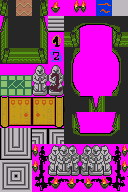
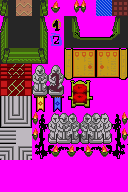
+ Modificados tileSet final-dungeon y su archivo de configuración + Pequeños cambios en FinalDungeon y en DunDecorator

diff --git a/generator/source/include/FinalDungeon.h b/generator/source/include/FinalDungeon.h
@@ -12,22 +12,21 @@
 #include "DBManager.h"
 
 /*
-		       Lock Screen									  Final Screen
+		       Lock Screen							Final Screen
 
-		1 1 1 1 1 1 L L L L 1 1 1 1 1 1				1 1 1 1 1 1 1 1 1 1 1 1 1 1 1 1	
-		1 1	1 1 1 1 L L L L 1 1 1 1 1 1				1 1	1 1 1 1 1 1 1 1 1 1 1 1 1 1
-		1 1					        1 1				1 1   2 2 2    FE   2 2 2   1 1
-		1 1    			            1 1				1 1   2 2 2         2 2 2   1 1	
-		1 1   2 2 2		    2 2 2   1 1				1 1   2 2 2 2	  2	2 2 2   1 1
-		1 1	  2 2 2         2 2 2   1 1				1 1	  2 2 2 2     2 2 2 2   1 1
-		1 1   2 2 2         2 2 2   1 1				1 1         2     2         1 1
-		1 1                         1 1				1 1   2                 2   1 1
-		1 1                         1 1				1 1       2        2        1 1
-		1 1                         1 1				1 1   2                 2   1 1
-		1 1                         1 1		        1 1       2        2        1 1
-		1 1                         1 1				1 1   2                 2   1 1
-		1 1 1 1 1 1         1 1 1 1 1 1				1 1 1 1 1 1 1     1 1 1 1 1 1 1
-		1 1 1 1 1 1         1 1 1 1 1 1				1 1 1 1 1 1 1     1 1 1 1 1 1 1
+		1 1 1 1 1 L L L L 1 1 1 1 1				1 1 1 1 1 1 1 1 1 1 1 1 1 1	
+		1 1 1 1 1 L L L L 1 1 1 1 1				1 1	1 1 1 1 1 1 1 1 1 1 1 1
+		1 1			            1 1				1 1						1 1	
+		1 1    	                1 1				1
+		1 1   2 2 2     2 2 2   1 1				
+		1 1	  2 2 2     2 2 2   1 1				
+		1 1   2 2 2     2 2 2   1 1				
+		1 1                     1 1				
+		1 1                     1 1
+		1 1					    1 1
+		1 1 1 1 1 E E E E 1 1 1 1 1 			
+		1 1 1 1 1 E E E E 1 1 1 1 1				
+											
 		
 */
 class FinalDungeon: public Dungeon {
